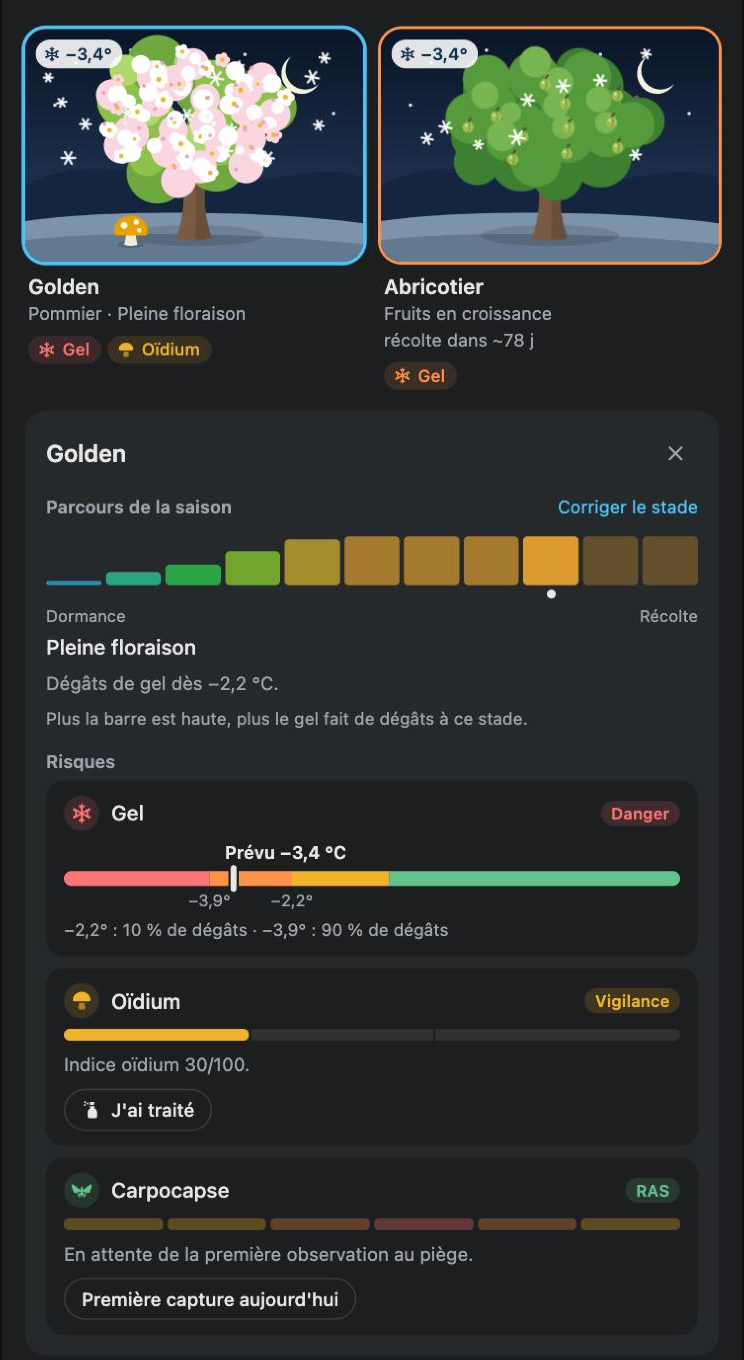
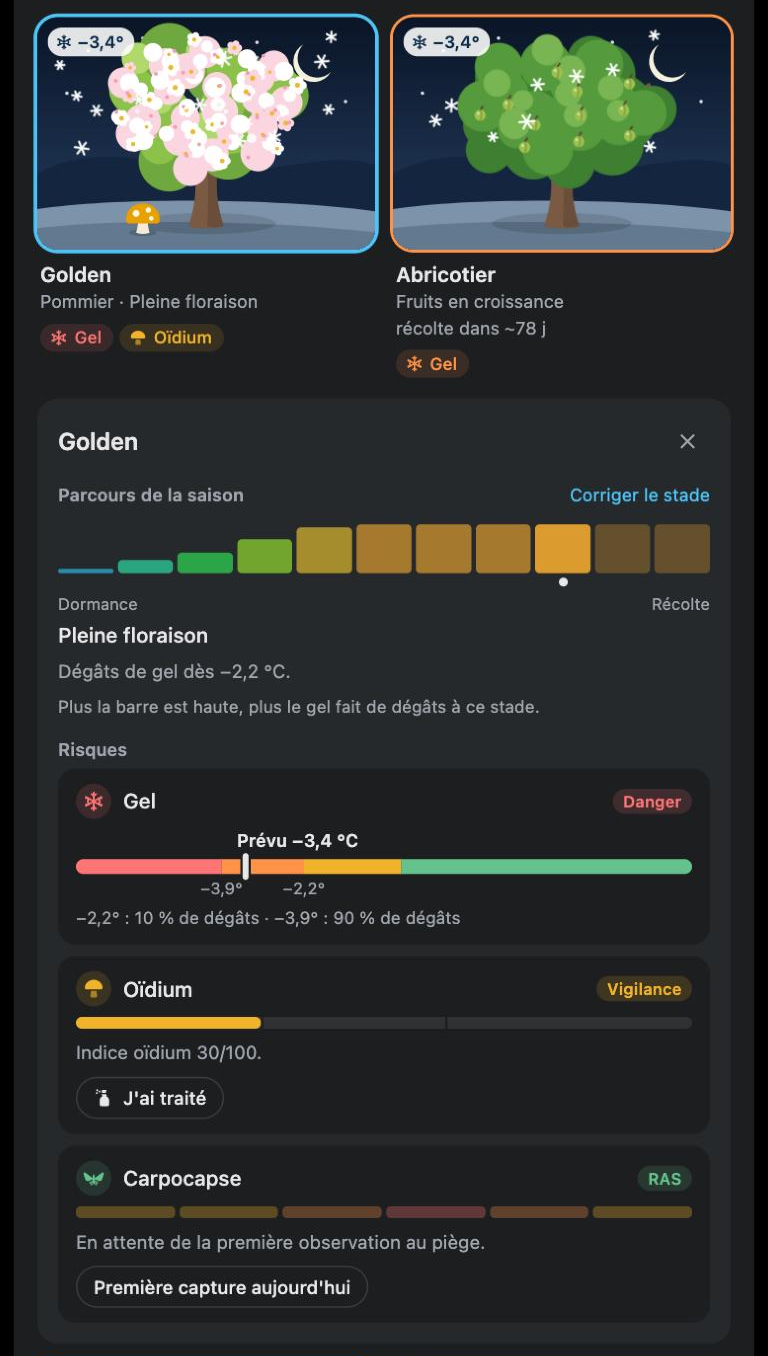
docs: images du README sur fond noir
Les captures de la carte passent en thème sombre sur fond noir, et les deux
images de tête font la même hauteur pour rester alignées.

Changed region(s): [[0.0, 0.0, 1.0, 1.0], [0.0927, 0.8363, 0.9274, 0.9602], [0.7728, 0.7124, 0.9274, 0.7434]]

diff --git a/tests/card_demo.html b/tests/card_demo.html
@@ -8,7 +8,7 @@
   :root { --primary-text-color:#212121; --secondary-text-color:#6b7076; --primary-color:#03a9f4; --divider-color:#e0e0e0; --card-background-color:#fff; --ha-card-background:#fff; --secondary-background-color:#f3f4f5; --text-primary-color:#fff; }
   body.dark { --primary-text-color:#e6e8ea; --secondary-text-color:#a0a6ad; --primary-color:#4fc3f7; --divider-color:#3a3d41; --card-background-color:#1c1e20; --ha-card-background:#1c1e20; --secondary-background-color:#26292c; }
   body { margin:0; padding:16px; background:#eef0f2; color:var(--primary-text-color); font-family:Roboto,-apple-system,BlinkMacSystemFont,"Segoe UI",sans-serif; font-size:14px; }
-  body.dark { background:#101214; }
+  body.dark { background:#000; }
   .bar { display:flex; flex-wrap:wrap; gap:8px; align-items:center; margin:0 0 14px; }
   select, button { font:inherit; padding:5px 10px; border-radius:8px; border:1px solid var(--divider-color); background:var(--card-background-color); color:inherit; }
   #stage { margin:0 auto; }

diff --git a/README.md b/README.md
@@ -379,7 +379,7 @@ The card answers one question first: do I need to do something, and when?
 <p align="center">
   <img src="https://raw.githubusercontent.com/Sdavid66/Meteo-Sentinelle/main/images/card-detail-en.png" alt="A tree's detail in dark theme: season path, frost gauge and risks" width="420">
 </p>
-<p align="center"><em>A tree's detail, here in dark theme. Sample data.</em></p>
+<p align="center"><em>A tree's detail. Sample data.</em></p>
 
 - **A banner** states the most urgent risk in one sentence, the trees
   concerned and when to act. When nothing is urgent, it announces the next

diff --git a/README.fr.md b/README.fr.md
@@ -397,7 +397,7 @@ chose, et quand ?
 <p align="center">
   <img src="https://raw.githubusercontent.com/Sdavid66/Meteo-Sentinelle/main/images/card-detail.png" alt="Le détail d'un arbre en thème sombre : parcours de la saison, jauge de gel et risques" width="420">
 </p>
-<p align="center"><em>Le détail d'un arbre, ici en thème sombre. Données d'exemple.</em></p>
+<p align="center"><em>Le détail d'un arbre. Données d'exemple.</em></p>
 
 - **Un bandeau** dit en une phrase le risque le plus urgent, les arbres
   concernés et quand agir. Quand rien ne presse, il annonce la prochaine
